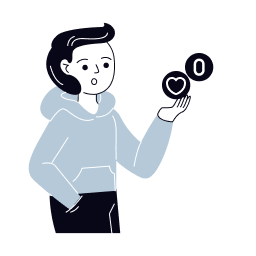
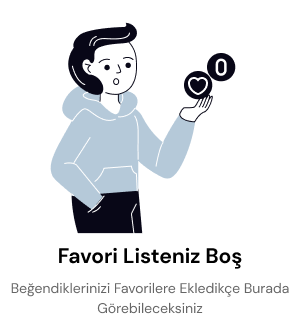
add : implemented back navigation in - Fav screen

Changed region(s): [[0.0312, 0.0625, 0.9688, 1.0]]

diff --git a/src/screens/fav/fav.tsx b/src/screens/fav/fav.tsx
@@ -1,29 +1,52 @@
 import React from 'react';
-import { View, Text, FlatList } from 'react-native';
+import { View, Text, FlatList,TouchableOpacity,Image} from 'react-native';
 import styles from './fav.style';
 import { useFavoriteStore } from '../../store/fav';
 import ProductCard from '../../components/product/productcart'; // Kart component'i
+import { useNavigation } from '@react-navigation/native'; // useNavigation import edilmeli
 
-const Fav = () => {
-  const { favorites } = useFavoriteStore(); // Store'dan favorileri al
 
-  const renderItem = ({ item }: any) => (
+// const Fav = () => {
+//   const { favorites } = useFavoriteStore(); // Store'dan favorileri al
+  
+
+//   const renderItem = ({ item }: any) => (
+  const Fav = () => {
+    const navigation = useNavigation();
+  
+    // Favori ürünleri store'dan al
+    const { favorites } = useFavoriteStore();
+  
+    const handleGoBack = () => {
+      navigation.goBack();
+    };
+  
+    // Favori ürün kartı 
+    const renderItem = ({ item }: any) => (
     <ProductCard
       name={item.title}
       price={item.price}
       image={item.images[0]} // ilk görsel
       description={item.description}
-      productId={item.id.toString()} // props string bekliyor
+      productId={item.id.toString()} // props string ,????
     />
   );
+ 
 
   return (
     <View style={styles.container}>
       <Text style={styles.title}>Favori Ürünler</Text>
-
       {favorites.length === 0 ? (
-        <Text style={styles.emptyText}>Henüz favori eklenmemiş.</Text>
+        <View style={styles.emptyContainer}>
+          <Image
+            source={require('../../assets/img/galp.png')} 
+            style={styles.emptyImage}
+            resizeMode="contain"
+          />
+         
+        </View>
       ) : (
+     
         <FlatList
           data={favorites}
           keyExtractor={(item) => item.id.toString()}
@@ -34,7 +57,13 @@ const Fav = () => {
         />
 
       )}
-      
+      {/* Geri butonu */}
+      <TouchableOpacity style={styles.backButton} onPress={handleGoBack}>
+        <Image
+          source={require('../../assets/img/back.png')} 
+          style={styles.backIcon}
+        />
+      </TouchableOpacity>
     </View>
   );
 };

diff --git a/src/components/product/productcart.style.ts b/src/components/product/productcart.style.ts
@@ -19,7 +19,10 @@ export default StyleSheet.create({
     right: 10, 
     zIndex: 10,
   },
-
+  favoriteIcon: {
+    width: 25,  //inactive --
+    height: 25,
+  },
   favoriteIconActive: {
     width:45,
     height:45,
@@ -31,6 +34,7 @@ export default StyleSheet.create({
     height:40,
   },
   
+ 
   priceButton: {
     position: 'absolute',
     top: 150,

diff --git a/src/screens/fav/fav.style.ts b/src/screens/fav/fav.style.ts
@@ -18,11 +18,12 @@ const styles = StyleSheet.create({
    
   },
   
-  emptyText: {
-    fontSize: 16,
-    color: '#666',
-    marginTop: 20,
-    textAlign: 'center',
+  emptyImage: {
+    
+  },
+  emptyContainer: {
+    justifyContent:'center',
+    alignItems:'center',
   },
   listContainer: {
     paddingBottom: 36,

diff --git a/App.tsx b/App.tsx
@@ -11,6 +11,7 @@ import Favorites from './src/screens/fav/fav';
 // Tip tanımlamaları
 import { RootStackParamList } from './src/navigation/types';
 
+
 // Stack Navigator oluşturuluyor
 const Stack = createNativeStackNavigator<RootStackParamList>();
 

diff --git a/src/screens/home/home.style.ts b/src/screens/home/home.style.ts
@@ -19,7 +19,7 @@ const styles = StyleSheet.create({
   productsContainer: {
     flexDirection: 'row',
     flexWrap: 'wrap',
-    marginTop: 10,
+    marginTop: 15,
   },
   loadingContainer: {
     flexDirection: 'row',
